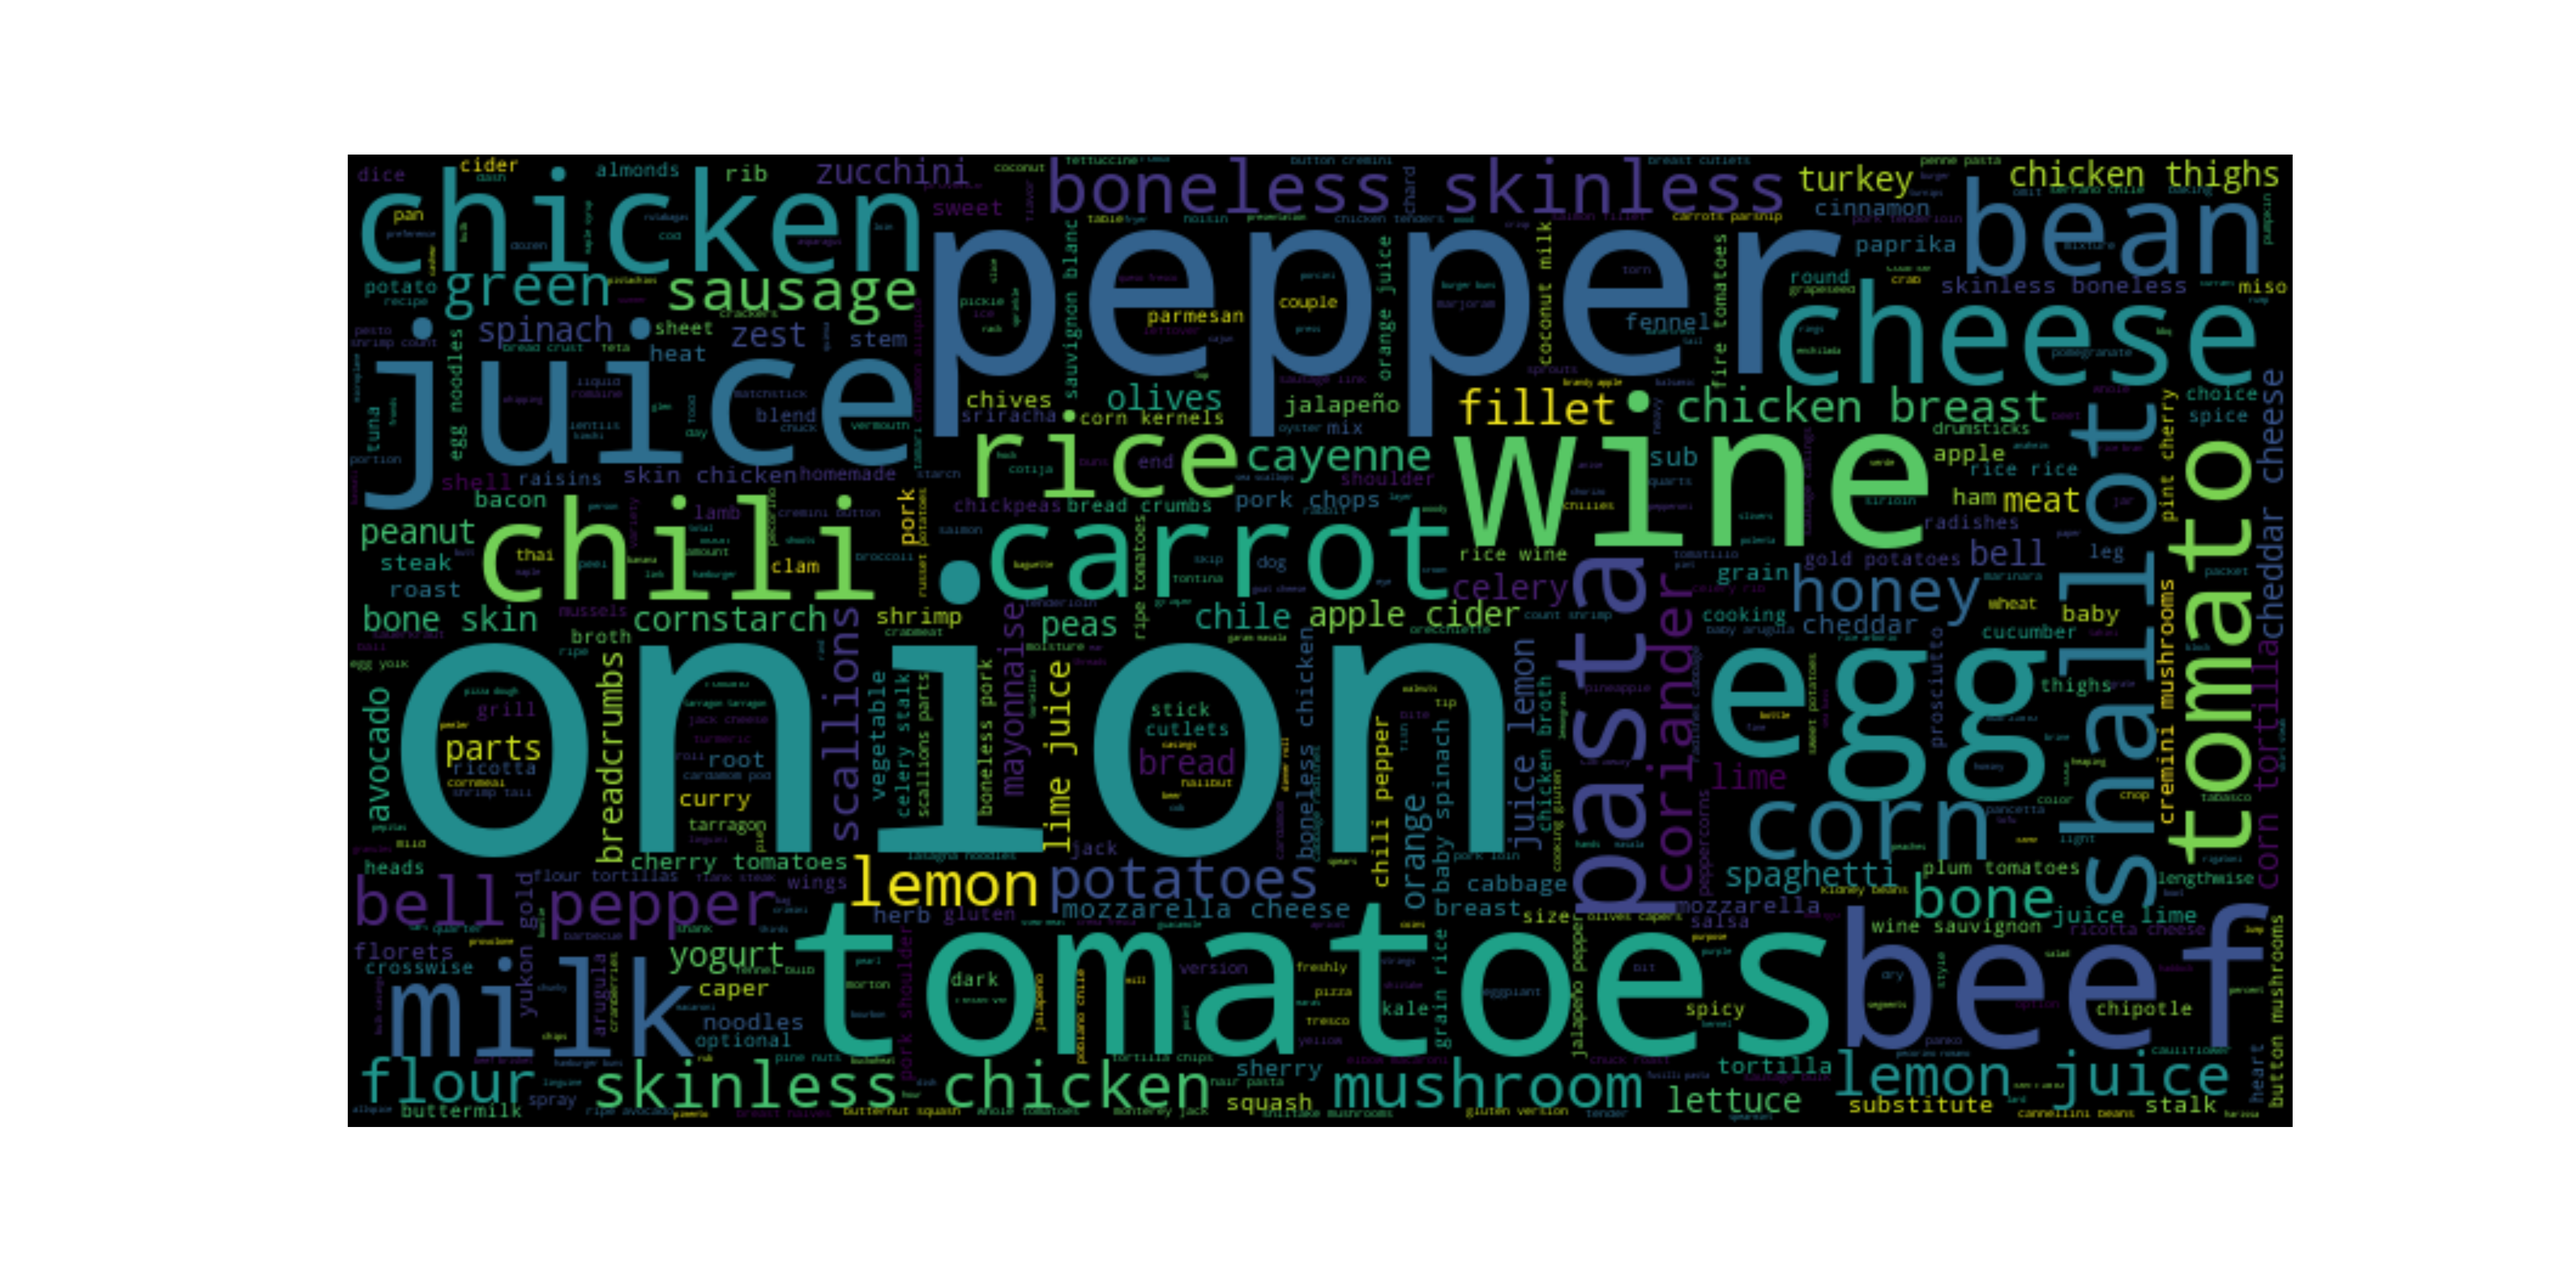
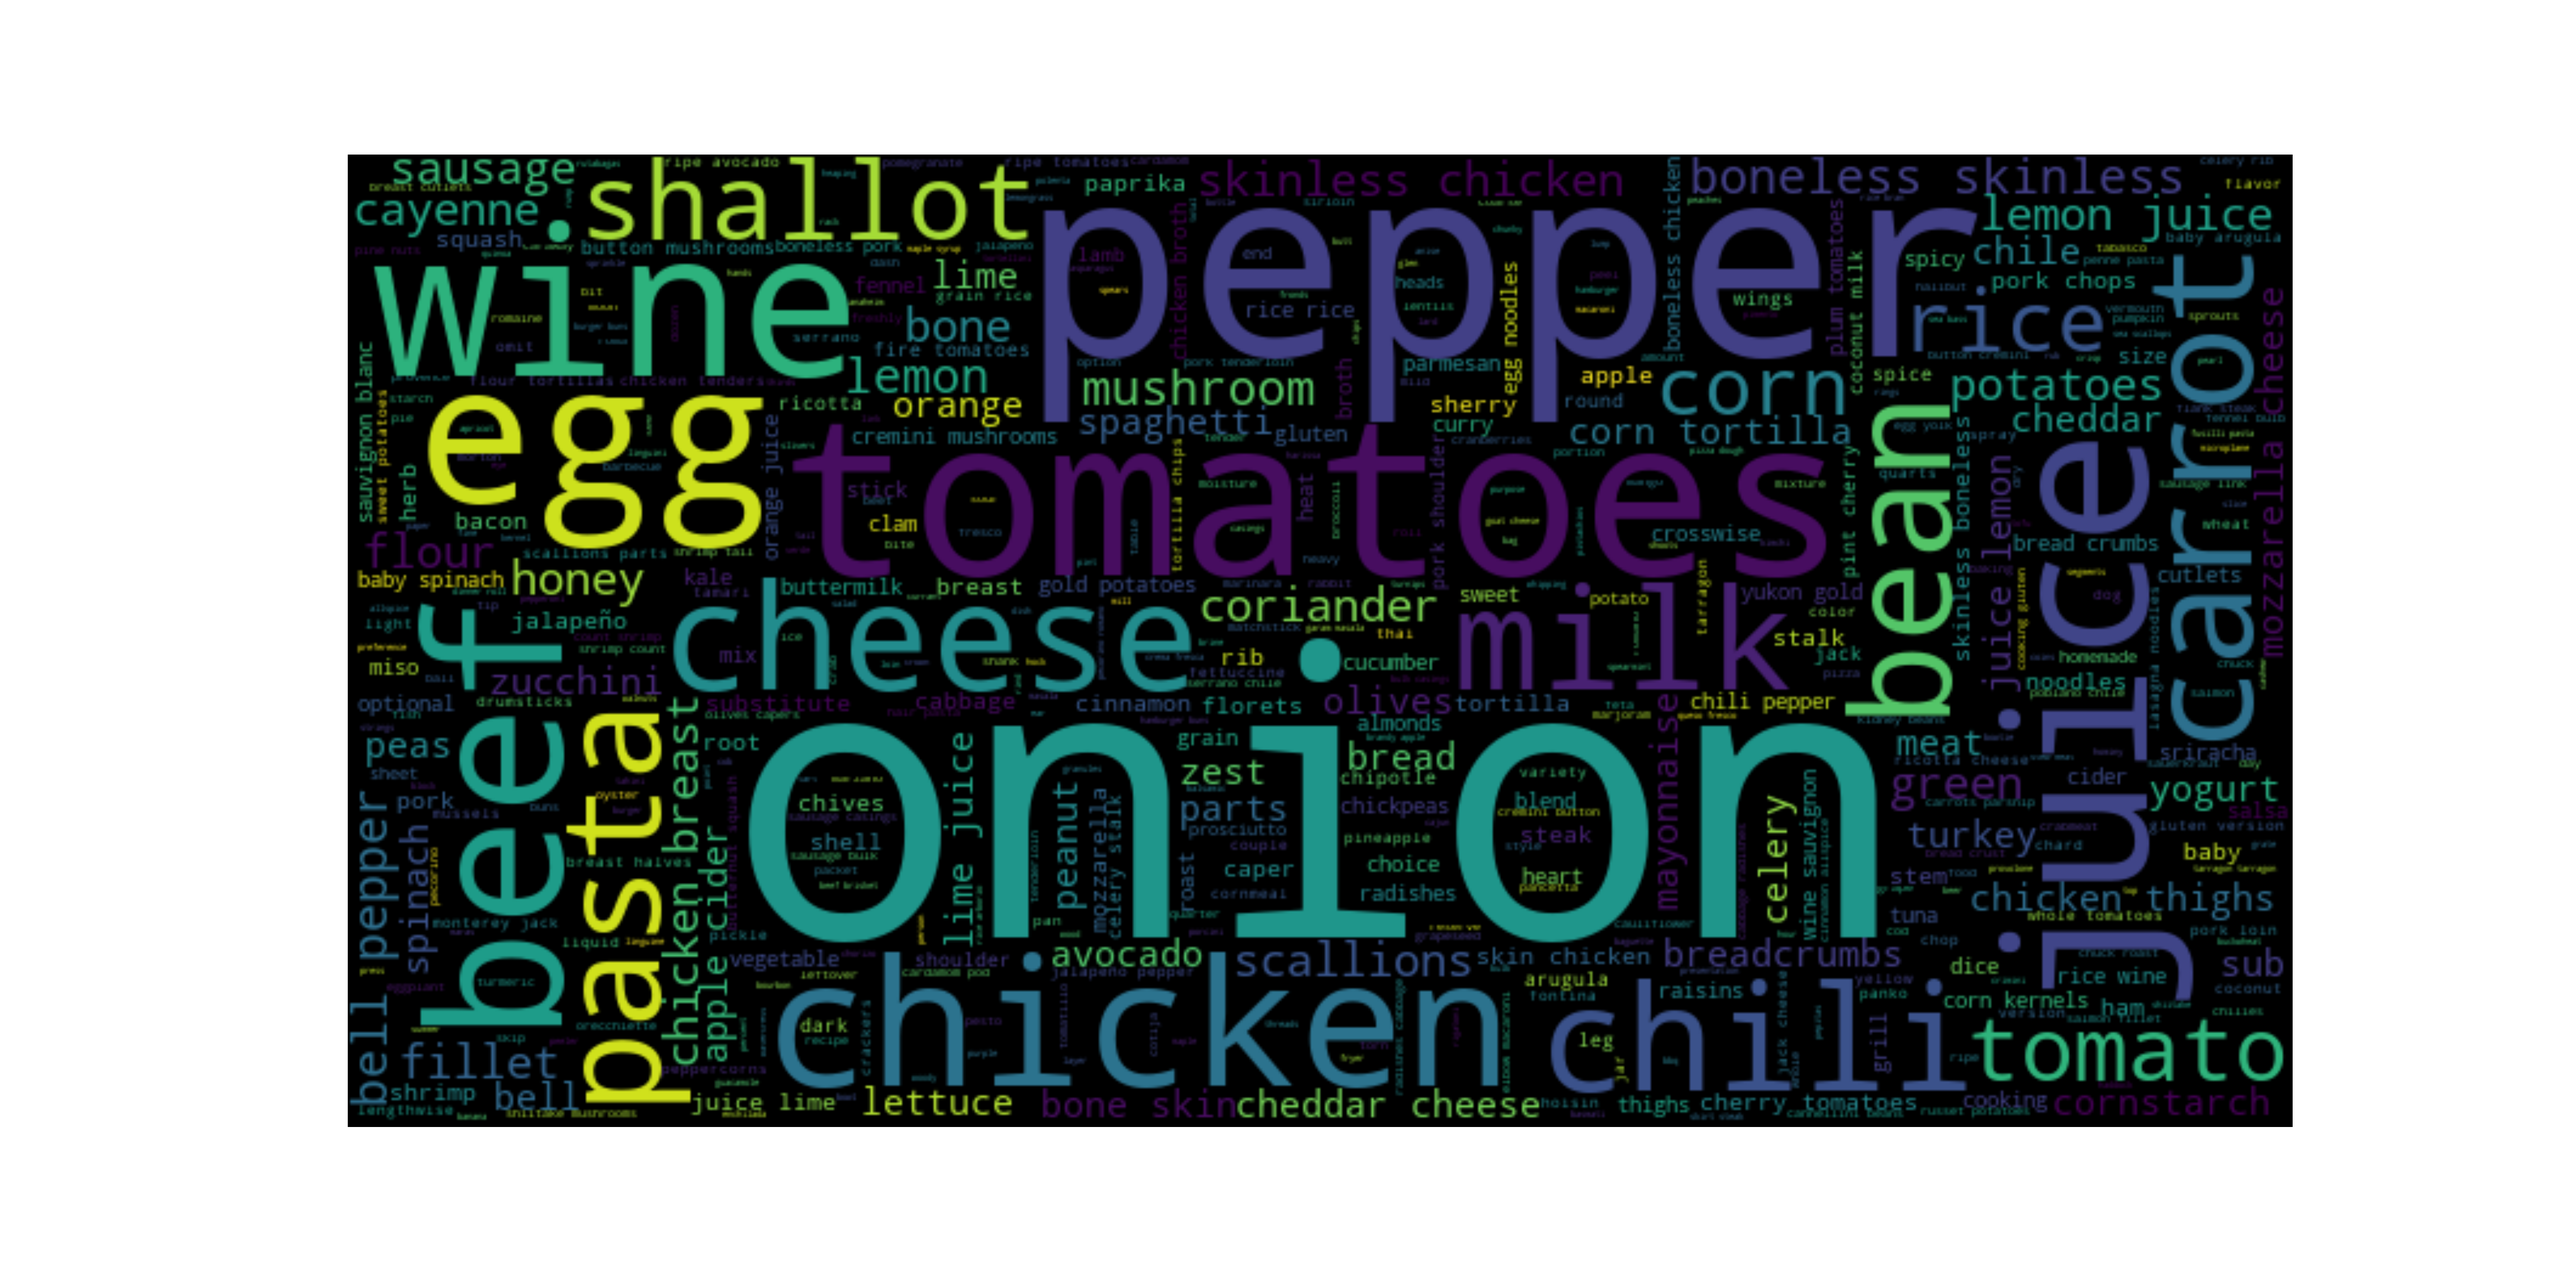
add dish category from the category scrapy project, merged 2 dataframes

diff --git a/recipes/spiders/category_recipes_spider.py b/recipes/spiders/category_recipes_spider.py
@@ -6,9 +6,10 @@ class RecipesSpider(Spider):
     name = "recipes_spider"
     allowed_urls = ["https://www.simplyrecipes.com/"]
     #start_urls = ["https://www.simplyrecipes.com/recipes/course/dinner/", "https://www.simplyrecipes.com/recipes/course/stew/", "https://www.simplyrecipes.com/recipes/course/soup/"]
-    start_urls = ["https://www.simplyrecipes.com/recipes/course/dinner/"]
+    start_urls = ["https://www.simplyrecipes.com/recipes/main-ingredient/"]
     
     def parse(self, response):
+        main = ['beef', 'chicken', 'vegetables', ]
         num_pages = int(response.xpath('//a[@class="rpg-page-numbers"]/text()').extract()[-1])
         #num_pages = 2
         #page_lst = [f'https://www.simplyrecipes.com/recipes/course/dinner/page/{i+1}/' for i in range(num_pages)]
@@ -67,3 +68,5 @@ class RecipesSpider(Spider):
         item['ingredients'] = ingredients
 
         yield item
+
+class 

diff --git a/recipes/spiders/recipes_spider.py b/recipes/spiders/recipes_spider.py
@@ -10,8 +10,8 @@ class RecipesSpider(Spider):
     def parse(self, response):
         num_pages = int(response.xpath('//a[@class="rpg-page-numbers"]/text()').extract()[-1])
         #num_pages = 2
-        #page_lst = [f'https://www.simplyrecipes.com/recipes/course/dinner/page/{i+1}/' for i in range(num_pages)]
-        page_lst = [f'https://www.simplyrecipes.com/recipes/course/soup/page/{i+1}/' for i in range(num_pages)]
+        page_lst = [f'https://www.simplyrecipes.com/recipes/course/dinner/page/{i+1}/' for i in range(num_pages)]
+        #page_lst = [f'https://www.simplyrecipes.com/recipes/course/soup/page/{i+1}/' for i in range(num_pages)]
 
         for page in page_lst:
             yield Request(url = page, callback = self.parse_recipe_lst_page)
